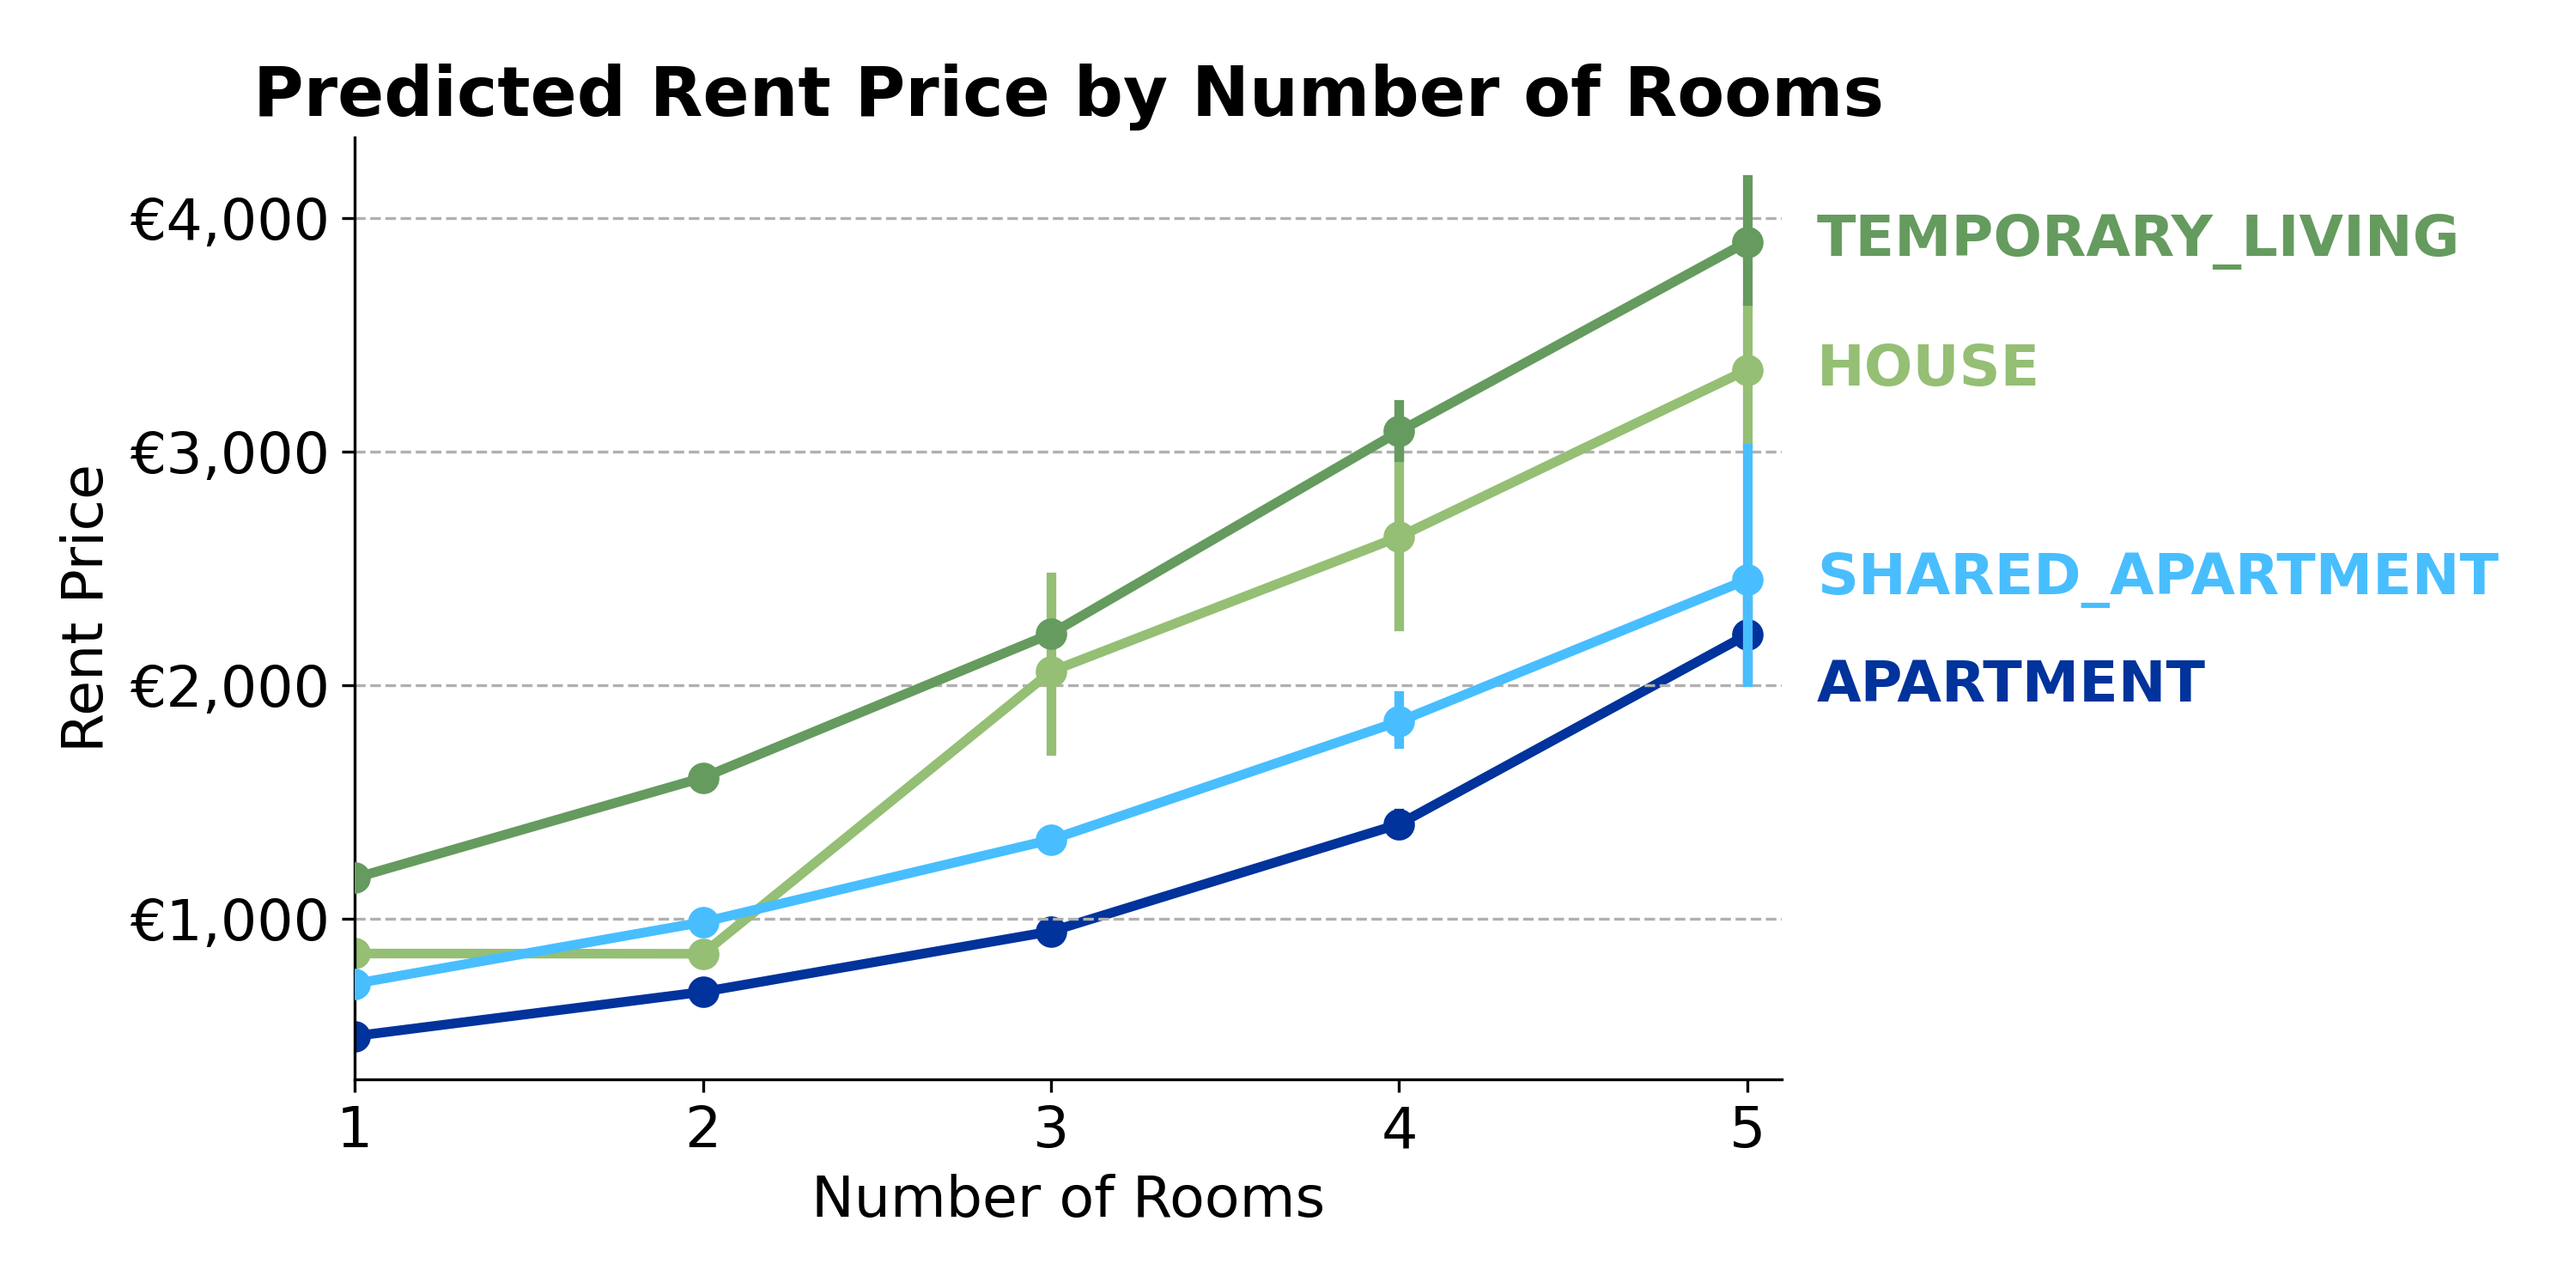
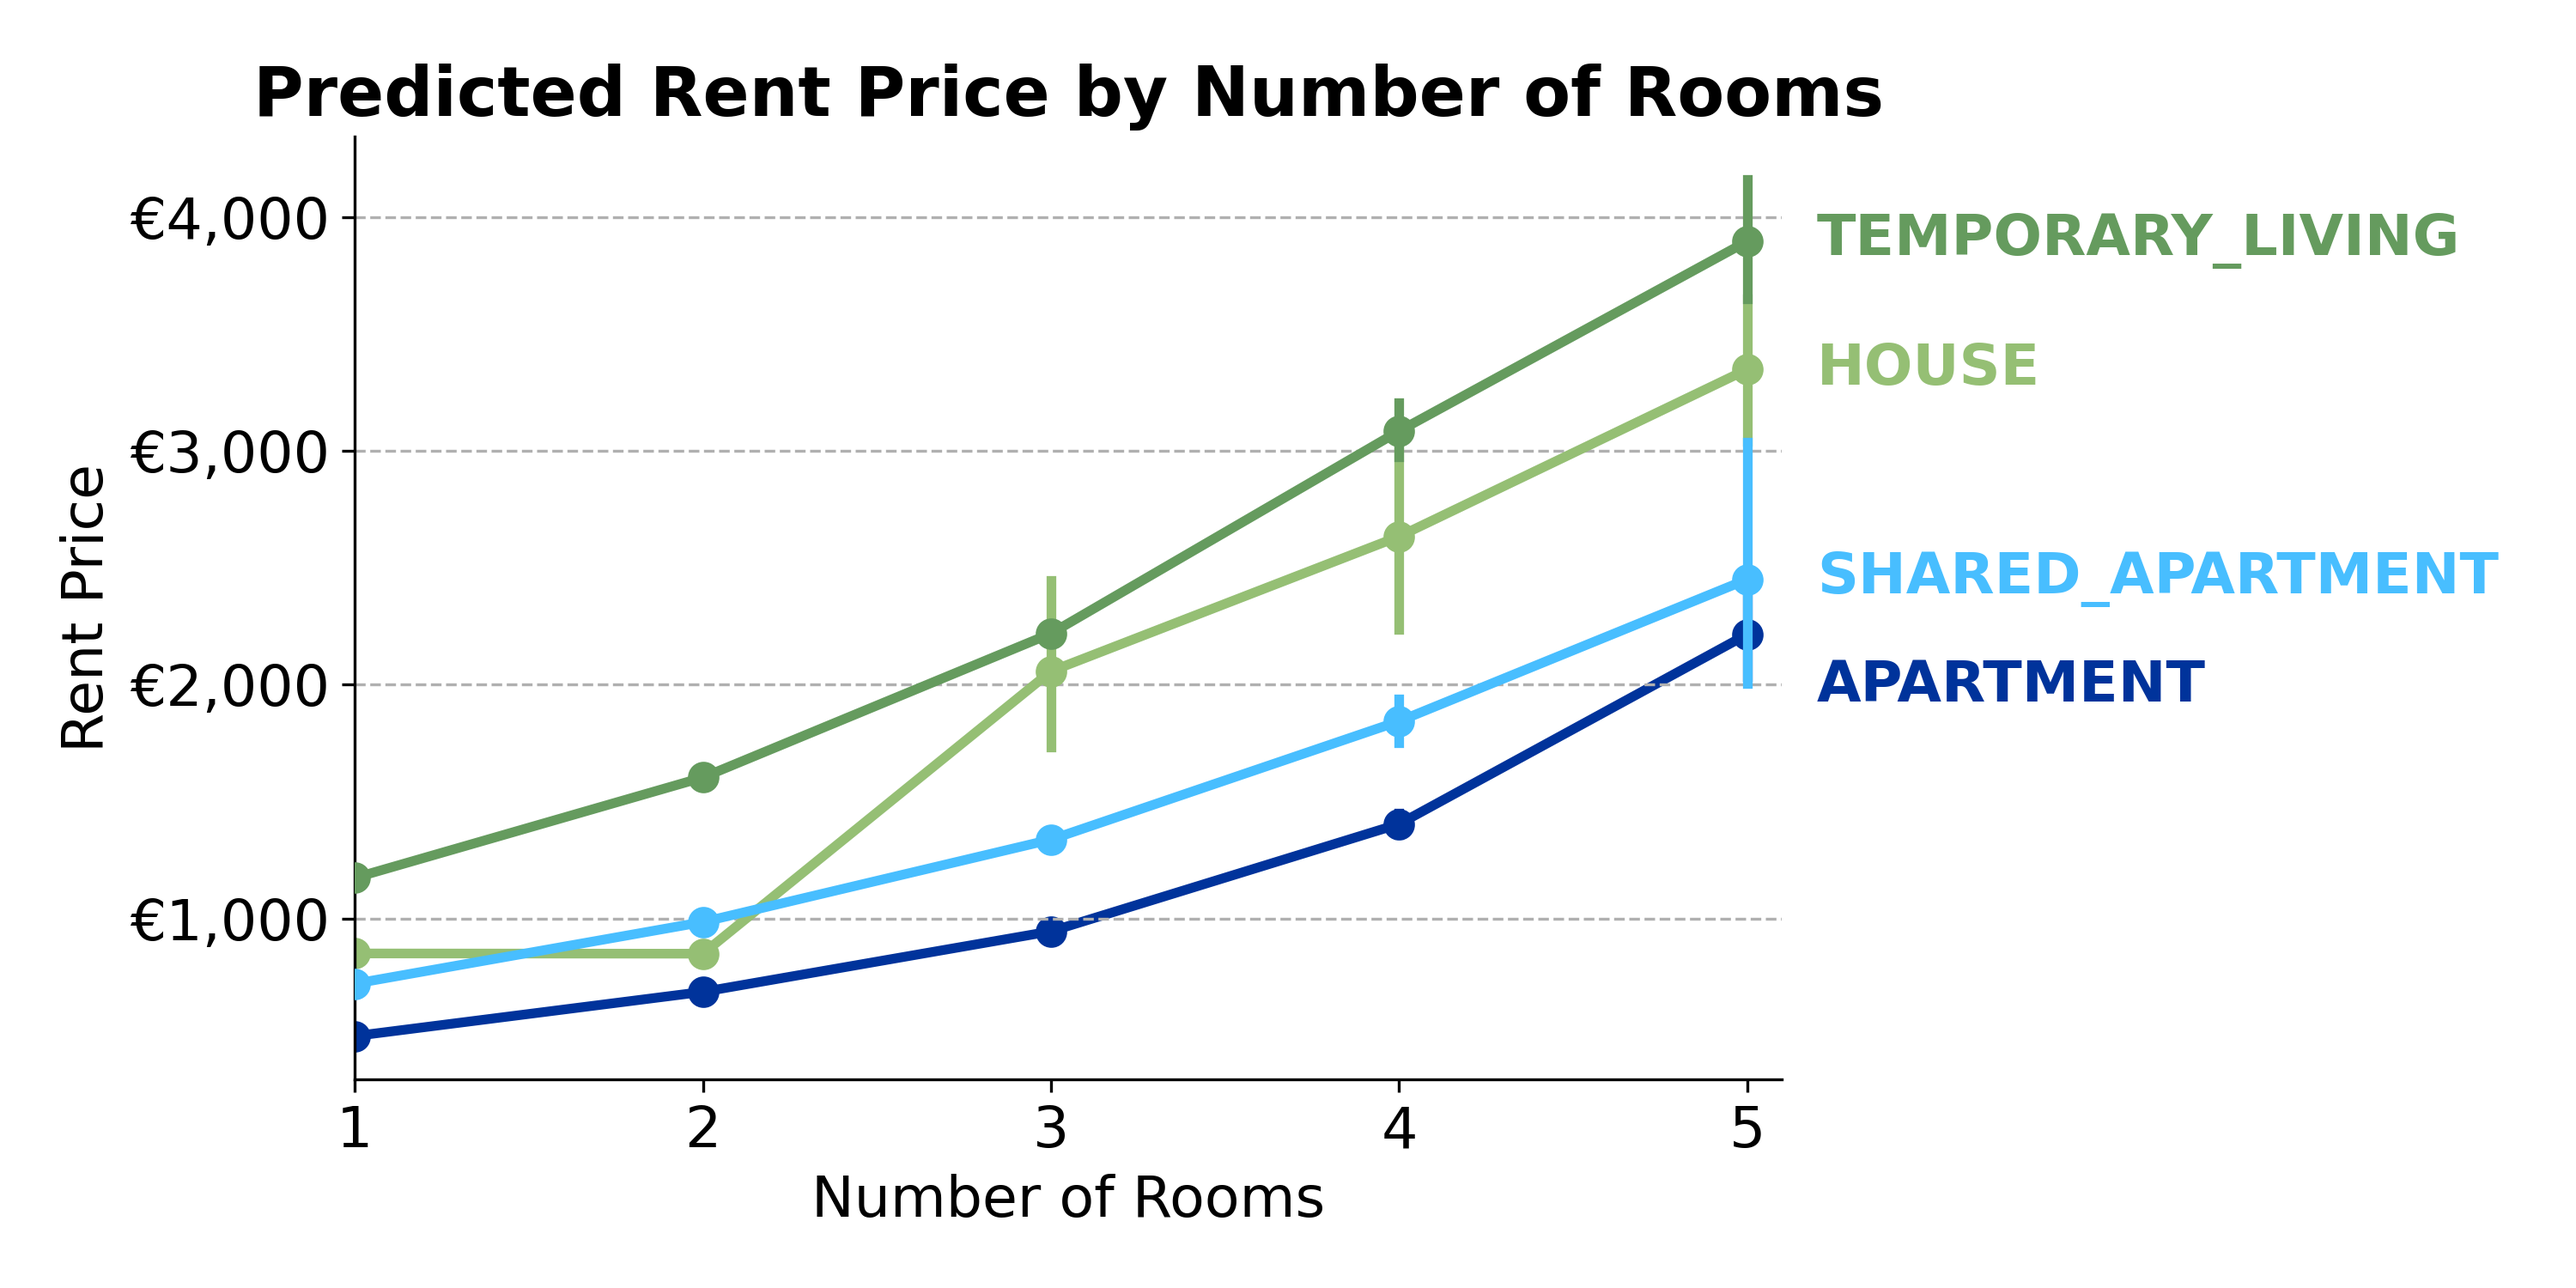
fix

Changed region(s): [[0.093, 0.3373, 0.124, 0.368], [0.093, 0.1533, 0.124, 0.184]]

diff --git a/scripts/prediction_plots.py b/scripts/prediction_plots.py
@@ -98,9 +98,9 @@ df_dotplot
 
 
 def is_sig(pointestimate, err):
-    if pointestimate < 0 and pointestimate + err >= 0:
+    if pointestimate < 0 and pointestimate + err * 1.96 >= 0:
         return np.nan
-    elif pointestimate > 0 and pointestimate - err <= 0:
+    elif pointestimate > 0 and pointestimate - err * 1.96 <= 0:
         return np.nan
     else:
         return pointestimate
@@ -185,7 +185,7 @@ streets.plot(color="0.8", ax=ax, zorder=-1)
 ax.set_xlim(13, 13.8)
 ax.set_ylim(52.3, 52.7)
 
-plt.savefig(ROOT_DIR + "documents/plots/geoplot.png", dpi=300, facecolor="w")
+# plt.savefig(ROOT_DIR + "documents/plots/geoplot.png", dpi=300, facecolor="w")
 
 #%%
 mitte = geodf.query("plz == '10117'").to_crs(epsg=32642).centroid.to_frame().set_geometry(0)
